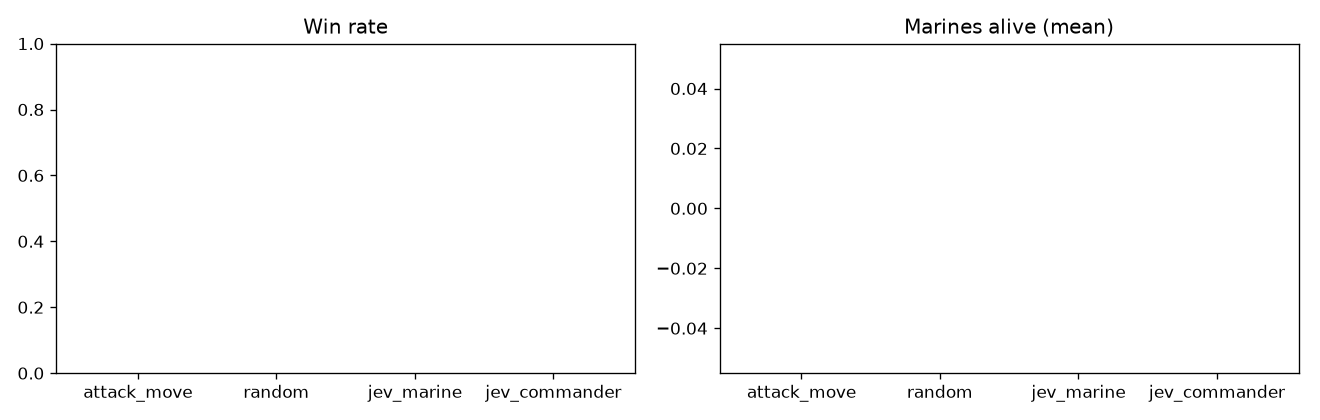
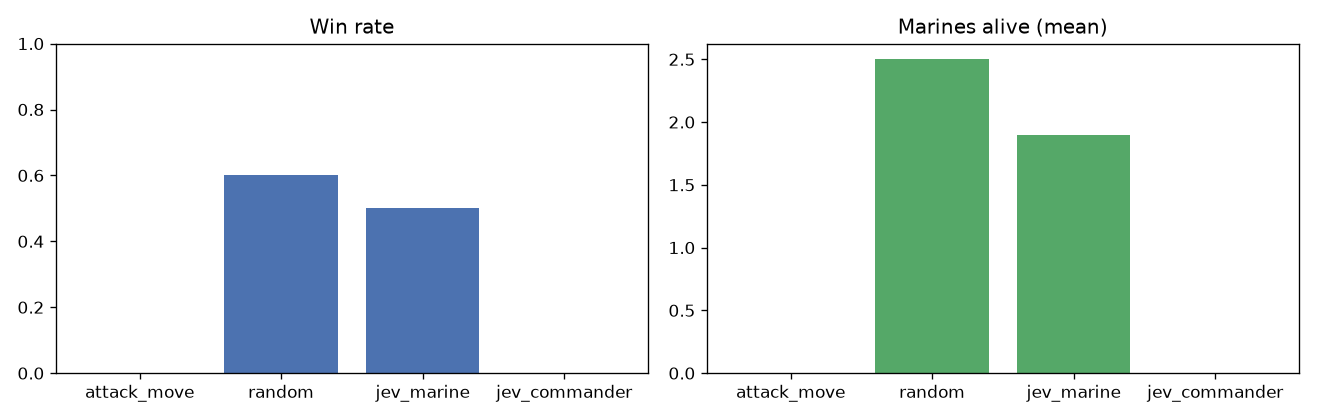
feat(004): round 4c (10 banelings) results

diff --git a/004-sc2-squad-commander/src/arena/config.py b/004-sc2-squad-commander/src/arena/config.py
@@ -4,7 +4,7 @@ MAP_NAME = "Flat128"
 CENTER = (64.0, 64.0)
 
 MARINE_COUNT = 12
-BANELING_COUNT = 14
+BANELING_COUNT = 10
 ZERGLING_COUNT = 10
 MARINE_OFFSET = (-7.0, 0.0)
 BANELING_OFFSET = (7.0, 0.0)

diff --git a/004-sc2-squad-commander/results/table.md b/004-sc2-squad-commander/results/table.md
@@ -1,6 +1,6 @@
 | Policy | Runs | Wins | Score | Win rate | Marines alive | Enemies killed | Fight s | Median ms | p90 ms | Cost USD |
 |---|---|---|---|---|---|---|---|---|---|---|
-| attack_move | 10 | 0 | 0 | 0.00 | 0 | 9.20 | 3.61 | - | - | 0.00 |
-| random | 10 | 0 | 0 | 0.00 | 0 | 17.60 | 20.58 | - | - | 0.00 |
-| jev_marine | 10 | 0 | 0 | 0.00 | 0 | 12.50 | 16.92 | 174.50 | 271.40 | 0.04 |
-| jev_commander | 10 | 0 | 0 | 0.00 | 0 | 11.60 | 18.66 | 365.00 | 471.70 | 0.11 |
+| attack_move | 10 | 0 | 0 | 0.00 | 0 | 9.50 | 4.00 | - | - | 0.00 |
+| random | 10 | 6 | 13.90 | 0.60 | 2.50 | 18.50 | 25.33 | - | - | 0.00 |
+| jev_marine | 10 | 5 | 10 | 0.50 | 1.90 | 16.50 | 21.19 | 153.50 | 193.10 | 0.06 |
+| jev_commander | 10 | 0 | 0 | 0.00 | 0 | 12.20 | 12.95 | 319.70 | 386.40 | 0.08 |

diff --git a/004-sc2-squad-commander/results/round4b/table.md b/004-sc2-squad-commander/results/round4b/table.md
@@ -1,0 +1,6 @@
+| Policy | Runs | Wins | Score | Win rate | Marines alive | Enemies killed | Fight s | Median ms | p90 ms | Cost USD |
+|---|---|---|---|---|---|---|---|---|---|---|
+| attack_move | 10 | 0 | 0 | 0.00 | 0 | 9.20 | 3.61 | - | - | 0.00 |
+| random | 10 | 0 | 0 | 0.00 | 0 | 17.60 | 20.58 | - | - | 0.00 |
+| jev_marine | 10 | 0 | 0 | 0.00 | 0 | 12.50 | 16.92 | 174.50 | 271.40 | 0.04 |
+| jev_commander | 10 | 0 | 0 | 0.00 | 0 | 11.60 | 18.66 | 365.00 | 471.70 | 0.11 |
